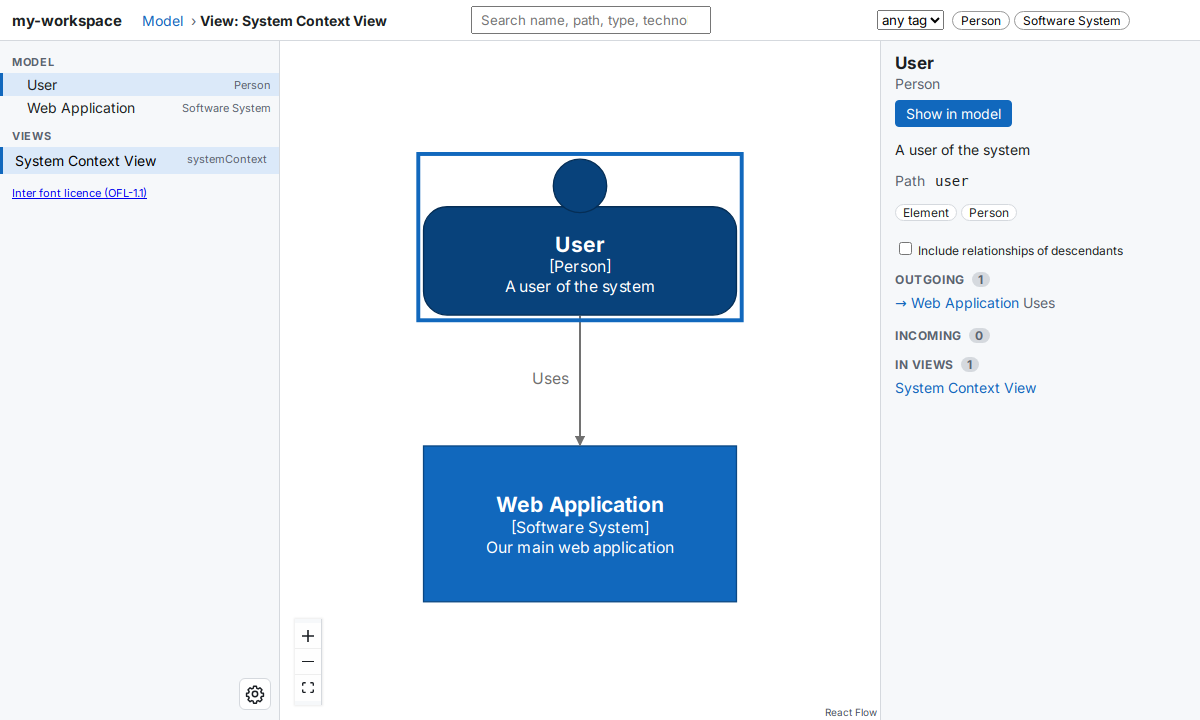
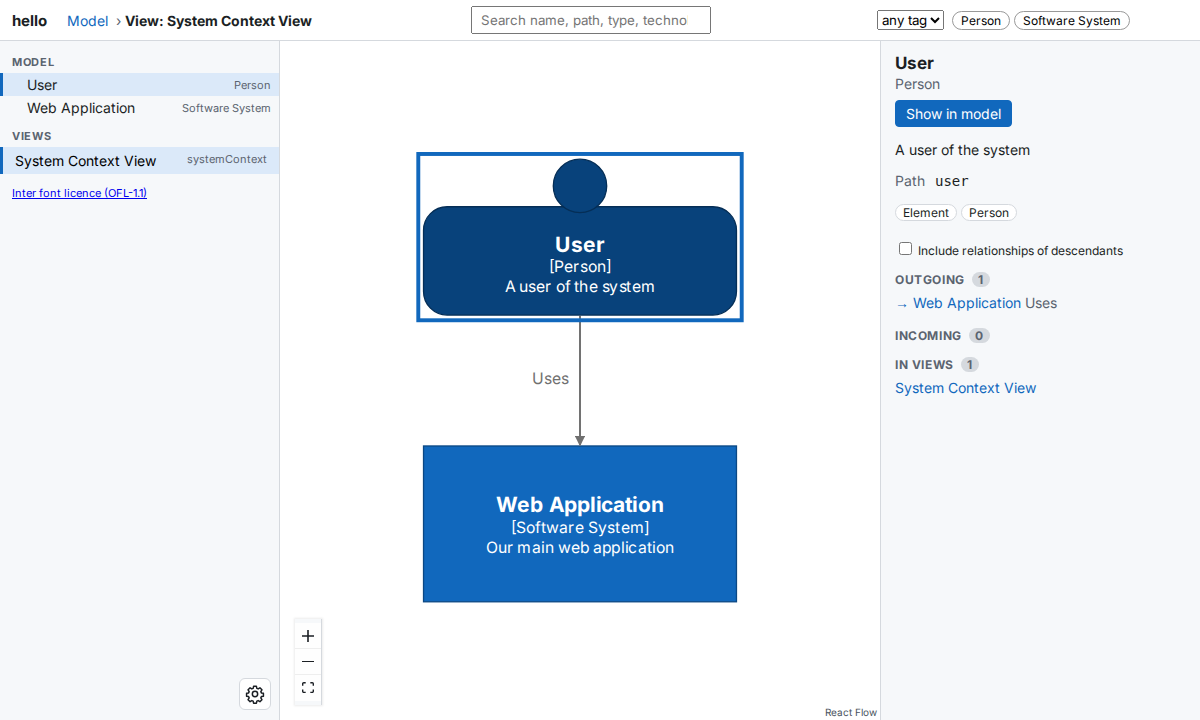
docs(quick-start): build and serve from the workspaces folder

Changed region(s): [[0.0, 0.0, 0.3083, 0.0611], [0.74, 0.3972, 0.8942, 0.4278]]

diff --git a/tests/docs/test_quick_start.py b/tests/docs/test_quick_start.py
@@ -1,4 +1,4 @@
-"""The Quick Start builds: every step of its model file runs, and the complete example builds into a site."""
+"""The Quick Start builds: every step of its model file runs, and the complete example builds into a workspace."""
 
 from __future__ import annotations
 
@@ -23,8 +23,8 @@ REAL = bool(shutil.which("node") or os.environ.get("BUILDZR_NODE")) and os.path.
 
 
 def model_blocks() -> list[Block]:
-    """The blocks the page tells the reader to save as ``model.py``, in page order."""
-    return [b for b in extract_blocks(PAGE) if b.directive == ("file", "model.py")]
+    """The blocks the page tells the reader to save as ``workspaces/hello.py``, in page order."""
+    return [b for b in extract_blocks(PAGE) if b.directive == ("file", "workspaces/hello.py")]
 
 
 def test_the_page_has_the_steps_and_the_complete_example() -> None:
@@ -33,10 +33,10 @@ def test_the_page_has_the_steps_and_the_complete_example() -> None:
 
 @pytest.mark.parametrize("block", model_blocks(), ids=lambda b: b.id)
 def test_every_step_runs(block: Block, tmp_path: Path) -> None:
-    (tmp_path / "model.py").write_text(block.text, encoding="utf-8")
-    done = subprocess.run([sys.executable, "model.py"], cwd=tmp_path, capture_output=True, text=True, timeout=120)
+    (tmp_path / "hello.py").write_text(block.text, encoding="utf-8")
+    done = subprocess.run([sys.executable, "hello.py"], cwd=tmp_path, capture_output=True, text=True, timeout=120)
     assert done.returncode == 0, done.stderr
-    assert sorted(p.name for p in tmp_path.iterdir()) == ["model.py"], "a step must not write files"
+    assert sorted(p.name for p in tmp_path.iterdir()) == ["hello.py"], "a step must not write files"
 
 
 def test_the_last_step_is_the_complete_example() -> None:
@@ -46,19 +46,19 @@ def test_the_last_step_is_the_complete_example() -> None:
     assert not complete.text.startswith("# norun"), "the complete example keeps its Run Code button"
 
 
-def test_the_complete_example_builds_a_site(tmp_path: Path, monkeypatch: pytest.MonkeyPatch,
-                                            tmp_path_factory: pytest.TempPathFactory) -> None:
+def test_the_complete_example_builds_a_workspace(tmp_path: Path, monkeypatch: pytest.MonkeyPatch,
+                                                 tmp_path_factory: pytest.TempPathFactory) -> None:
     if not REAL:  # without Node, lay out with the stub, as the other doc tests do
         static = make_static(tmp_path_factory.mktemp("static"))
-        real = cli.build_workspace
+        real = cli.build_all
 
-        def stub_build(workspace: str, out: str = ".buildzr/site", k: Any = None, text_color: Any = None,
-                       viewer: bool = True, **kw: Any) -> dict[str, Any]:
-            return real(workspace, out, k, text_color, viewer, layout_fn=stub_layout, static_dir=str(static))
+        def stub_build_all(path: str, out: str, *a: Any, **kw: Any) -> Any:
+            return real(path, out, *a, **{**kw, "layout_fn": stub_layout, "static_dir": str(static)})
 
-        monkeypatch.setattr(cli, "build_workspace", stub_build)
+        monkeypatch.setattr(cli, "build_all", stub_build_all)
     (tmp_path / ".git").mkdir()  # so that the config search stops here
-    (tmp_path / "model.py").write_text(model_blocks()[-1].text, encoding="utf-8")
+    (tmp_path / "workspaces").mkdir()
+    (tmp_path / "workspaces" / "hello.py").write_text(model_blocks()[-1].text, encoding="utf-8")
     monkeypatch.chdir(tmp_path)
-    assert cli.main(["build", "-w", "model.py"]) == 0
-    assert (tmp_path / ".buildzr" / "site" / "index.html").is_file()
+    assert cli.main(["build"]) == 0
+    assert (tmp_path / ".buildzr" / "build" / "hello" / "index.html").is_file()

diff --git a/docs/getting-started/quick-start.md b/docs/getting-started/quick-start.md
@@ -1,6 +1,6 @@
 # Quick Start
 
-In this tutorial, you describe a small software system in Python, build it into a site with `buildzr build`, and open its diagram in your browser with `buildzr serve`. At the end, you have a working model file and a diagram that you can click through.
+In this tutorial, you describe a small software system in Python and open its diagram in your browser with `buildzr serve`, which builds the model and serves it in one step. At the end, you have a working model file and a diagram that you can click through.
 
 !!! tip "Try it in your browser first"
     The [complete example](#6-compare-your-file-with-the-complete-example) on this page has a **Run Code** button. It runs the model in your browser, without installing anything, and shows the model as JSON (the Structurizr workspace format). You do not need it for the tutorial.
@@ -15,27 +15,30 @@ You need:
 
 ## 1. Create a project and install buildzr
 
-Create a project folder, add buildzr to it, and activate its virtual environment:
+Create a project folder, add buildzr to it, activate its virtual environment, and create a folder called `workspaces`:
 
 ```bash
 uv init quickstart
 cd quickstart
 uv add buildzr
 source .venv/bin/activate
+mkdir workspaces
 ```
 
 On Windows, activate the environment with `.venv\Scripts\activate` instead. The `buildzr` command is now available in this terminal.
 
+The `workspaces` folder is where the `buildzr` command looks for your models. Each Python file in it describes one or more workspaces.
+
 !!! note "With pip, or without installing"
     With pip instead of uv: create and activate a virtual environment, then run `pip install buildzr`.
 
-    You can also run the commands of this tutorial without installing buildzr, by putting `uvx` in front of them (`uvx buildzr build -w model.py`). This tutorial installs buildzr anyway, because your editor needs it to understand the model file while you write it.
+    You can also run the commands of this tutorial without installing buildzr, by putting `uvx` in front of them (`uvx buildzr serve`). This tutorial installs buildzr anyway, because your editor needs it to understand the model file while you write it.
 
 ## 2. Start the model file
 
-The **model file** is a Python file that describes your architecture. Create a file called `model.py` in the `quickstart` folder, with this content:
+The **model file** is a Python file that describes your architecture. Create a file called `hello.py` in the `workspaces` folder, with this content:
 
-<!-- doctest: file model.py -->
+<!-- doctest: file workspaces/hello.py -->
 ```python
 # norun
 from buildzr.dsl import (
@@ -46,17 +49,17 @@ from buildzr.dsl import (
     SystemContextView,
 )
 
-with Workspace('my-workspace') as w:
+with Workspace('hello') as w:
     pass
 ```
 
-The first lines import what this tutorial uses from `buildzr.dsl`. `Workspace` holds your whole model: everything else in this tutorial goes inside the `with` block, in place of `pass`.
+The first lines import what this tutorial uses from `buildzr.dsl`. `Workspace` holds your whole model: everything else in this tutorial goes inside the `with` block, in place of `pass`. Its name, `hello`, becomes part of the address at which you open the diagrams.
 
 ## 3. Add a person, a system and a relationship
 
 Replace `pass` with a person, a software system, and a relationship between them. The new lines are highlighted:
 
-<!-- doctest: file model.py -->
+<!-- doctest: file workspaces/hello.py -->
 ```python hl_lines="11-17"
 # norun
 from buildzr.dsl import (
@@ -67,7 +70,7 @@ from buildzr.dsl import (
     SystemContextView,
 )
 
-with Workspace('my-workspace') as w:
+with Workspace('hello') as w:
     user = Person('User', description='A user of the system')
     system = SoftwareSystem(
         'Web Application',
@@ -83,7 +86,7 @@ The line `user >> "Uses" >> system` says that the user uses the web application.
 
 Add a style that draws the user with the `Person` shape:
 
-<!-- doctest: file model.py -->
+<!-- doctest: file workspaces/hello.py -->
 ```python hl_lines="19-22"
 # norun
 from buildzr.dsl import (
@@ -94,7 +97,7 @@ from buildzr.dsl import (
     SystemContextView,
 )
 
-with Workspace('my-workspace') as w:
+with Workspace('hello') as w:
     user = Person('User', description='A user of the system')
     system = SoftwareSystem(
         'Web Application',
@@ -113,7 +116,7 @@ with Workspace('my-workspace') as w:
 
 A **view** is a diagram that you choose to draw. Add a system context view of the web application: it shows the system and the people and systems around it.
 
-<!-- doctest: file model.py -->
+<!-- doctest: file workspaces/hello.py -->
 ```python hl_lines="24-29"
 # norun
 from buildzr.dsl import (
@@ -124,7 +127,7 @@ from buildzr.dsl import (
     SystemContextView,
 )
 
-with Workspace('my-workspace') as w:
+with Workspace('hello') as w:
     user = Person('User', description='A user of the system')
     system = SoftwareSystem(
         'Web Application',
@@ -150,9 +153,9 @@ with Workspace('my-workspace') as w:
 
 ## 6. Compare your file with the complete example
 
-Your `model.py` is now complete. It must look like this:
+Your `workspaces/hello.py` is now complete. It must look like this:
 
-<!-- doctest: file model.py -->
+<!-- doctest: file workspaces/hello.py -->
 ```python
 from buildzr.dsl import (
     Workspace,
@@ -162,7 +165,7 @@ from buildzr.dsl import (
     SystemContextView,
 )
 
-with Workspace('my-workspace') as w:
+with Workspace('hello') as w:
     user = Person('User', description='A user of the system')
     system = SoftwareSystem(
         'Web Application',
@@ -184,32 +187,32 @@ with Workspace('my-workspace') as w:
     )
 ```
 
-The file does not call `w.save()`. In the next step, `buildzr build` runs the file and reads the workspace itself.
+The file does not call `w.save()`. In the next step, `buildzr serve` runs the file and reads the workspace itself.
 
-## 7. Build the site
+## 7. Build and serve the workspace
 
-Run `buildzr build` and name your model file with `-w`:
-
-```text
-$ buildzr build -w model.py
-built .buildzr/site (2 elements, 1 relationship, 1 view; modelHash sha256:de1cb536d351…)
-```
-
-The command wrote a **site** into the folder `.buildzr/site`: the web pages that draw your diagrams. The output counts what your model contains: 2 elements (the user and the web application), 1 relationship and 1 view.
-
-## 8. Open the site in your browser
-
-Start `buildzr serve`:
+In the `quickstart` folder, start `buildzr serve`:
 
 ```text
 $ buildzr serve
-Serving /home/you/quickstart/.buildzr/site at http://127.0.0.1:8000/ (Ctrl+C to stop)
-Model API at http://127.0.0.1:8000/api/v1/ (read only)
+built .buildzr/build/hello (2 elements, 1 relationship, 1 view; modelHash sha256:de1cb536d351…)
+Serving .buildzr/build at http://127.0.0.1:8000/ (Ctrl+C to stop)
+  http://127.0.0.1:8000/hello/
+Workspace list at http://127.0.0.1:8000/_buildzr/v1/workspaces
 ```
 
-Open `http://127.0.0.1:8000/` in your browser. You see the **landscape**: every person and software system of your model, like a [System Landscape diagram](https://c4model.com/#SystemLandscapeDiagram) of the C4 model. Here, that is the user, the web application and the "Uses" arrow between them.
+`buildzr serve` did two things:
 
-![The viewer after it opens: the User above the Web Application, joined by an arrow labelled Uses, with the model tree on the left](../images/quick-start/quick-start-landscape.png)
+1. It **built** your workspace. It ran every Python file in `workspaces`, laid out the diagrams of the workspace that `hello.py` creates, and wrote the result to the folder `.buildzr/build/hello`: the web pages that draw your diagrams. The `built` line counts what your model contains: 2 elements (the user and the web application), 1 relationship and 1 view.
+2. It **serves** that folder at `http://127.0.0.1:8000/`. Each workspace has its own address, made from its name: `/hello/`.
+
+The next time you start `buildzr serve`, it builds only the workspaces whose model file changed. It prints `up to date: hello` for the others.
+
+## 8. Open the workspace in your browser
+
+Open `http://127.0.0.1:8000/` in your browser. Because you have one workspace, the browser goes on to `http://127.0.0.1:8000/hello/`. You see the **landscape**: every person and software system of your model, like a [System Landscape diagram](https://c4model.com/#SystemLandscapeDiagram) of the C4 model. Here, that is the user, the web application and the "Uses" arrow between them.
+
+![The viewer at /hello/ after it opens: the User above the Web Application, joined by an arrow labelled Uses, with the model tree on the left](../images/quick-start/quick-start-landscape.png)
 
 *The first screen. The left panel lists the elements of the model and, under **Views**, your System Context View.*
 
@@ -224,10 +227,10 @@ Click the **Web Application** box. The right panel shows its details: its descri
 Every screen of the viewer has its own address. Open this address in your browser:
 
 ```
-http://127.0.0.1:8000/#/v/system-context?sel=user
+http://127.0.0.1:8000/hello/#/v/system-context?sel=user
 ```
 
-The viewer opens the System Context View that you added in step 5, with the User selected. You can share such a link with anyone who can open the site.
+The viewer opens the System Context View that you added in step 5, with the User selected. You can share such a link with anyone who can open the workspace.
 
 ![The System Context View opened from a link, with the User box selected and its details in the right panel](../images/quick-start/quick-start-view-link.png)
 
@@ -235,19 +238,29 @@ The viewer opens the System Context View that you added in step 5, with the User
 
 To stop `buildzr serve`, press Ctrl+C in the terminal.
 
+## 10. Build without serving
+
+`buildzr build` does the first half of `buildzr serve`: it builds every workspace of the `workspaces` folder and stops. Use it when you want the built files only, for example to copy them to another machine:
+
+```text
+$ buildzr build
+built .buildzr/build/hello (2 elements, 1 relationship, 1 view; modelHash sha256:de1cb536d351…)
+```
+
+Unlike `buildzr serve`, `buildzr build` always builds every workspace again.
+
 ## Next steps
 
-You have written a model file, built it into a site and opened its diagrams. From here:
+You have written a model file, built it into a workspace and opened its diagrams. From here:
 
 - Learn how to describe more: [Core Concepts](../user-guide/core-concepts.md), [Models](../user-guide/models.md), [Relationships](../user-guide/relationships.md) and [Views](../user-guide/views.md).
-- Keep the model file name in a config file, so that you do not type `-w model.py` each time: [`buildzr.yaml`](../config.md).
-- Put the site where other people can open it: [Publish your first site](../publish-first-site.md).
-- Look up every option of `build`, `serve` and `deploy`: [Command reference](../cli.md).
+- Serve several workspaces, and let other people open them: [Serve your workspaces](../serve-workspaces.md).
+- Look up every option of `build` and `serve`: [Command reference](../cli.md).
 - Let scripts and AI assistants read your model as JSON: [The Model API](../model-api.md).
 
 ### Other ways to view the model
 
-The site is the main way to view a buildzr model, but the model is also a standard Structurizr workspace in JSON. To write it to a file, add `w.save(path='workspace.json')` as the last line of the `with` block and run `python model.py`. Then you can open it with other tools:
+The viewer is the main way to view a buildzr model, but the model is also a standard Structurizr workspace in JSON. To write it to a file, add `w.save(path='workspace.json')` as the last line of the `with` block and run `python workspaces/hello.py`. Then you can open it with other tools:
 
 - **[Structurizr Lite](https://docs.structurizr.com/lite)** shows the workspace in your browser. Run it in the folder that holds `workspace.json`:
 
